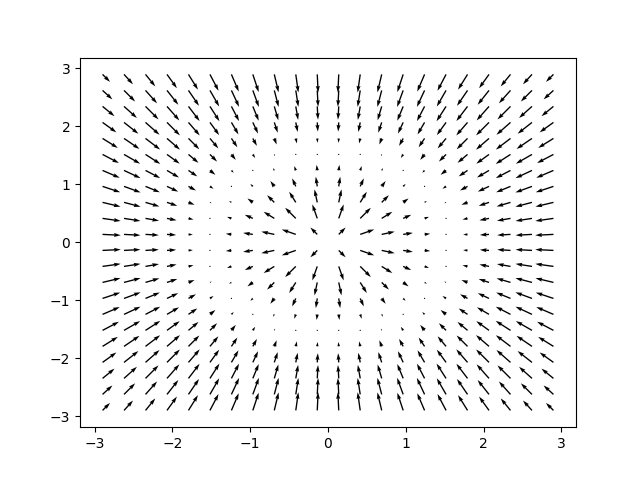
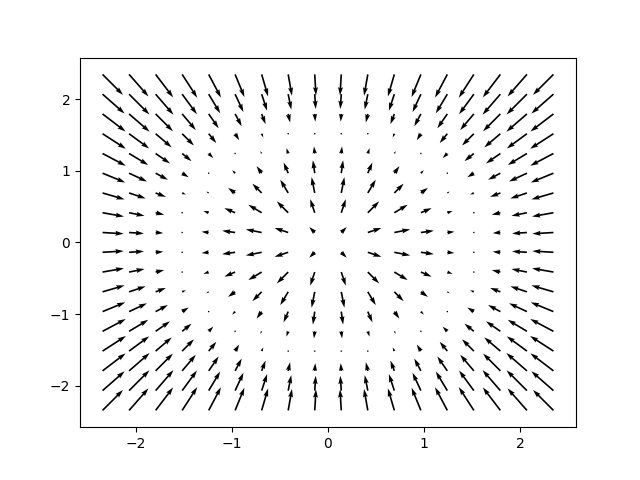
new formulation

diff --git a/SPH_Approximation.py b/SPH_Approximation.py
@@ -21,9 +21,9 @@ from kernel_functions import CubicSpline, d_CubicSpline, dd_CubicSpline
 from kernel_functions import WendlandQuinticC2, d_WendlandQuinticC2, dd_WendlandQuinticC2
 
 
-function = np.vectorize(SineFunction)                      #change the functions here
-d_function = np.vectorize(d_SineFunction)
-dd_function = np.vectorize(dd_SineFunction)
+function = np.vectorize(CosFunction)                      #change the functions here
+d_function = np.vectorize(d_CosFunction)
+dd_function = np.vectorize(dd_CosFunction)
 kernel = np.vectorize(Gaussian)                #change the gradients here
 d_kernel = np.vectorize(d_Gaussian)
 dd_kernel = np.vectorize(dd_Gaussian)
@@ -35,8 +35,10 @@ for particles_per_row in particles_per_row_list:
     
     h = 4 * domain/particles_per_row            #smoothing length
     m_v = 0.8 * (domain/particles_per_row)**2   #particle volume   
-    a = 4
-    c = a * domain/particles_per_row            #cutting off distance
+    rho_0 = 10
+    m = m_v * rho_0
+    a = 6
+    c = a * 2 * domain/particles_per_row            #cutting off distance
     x = np.linspace(-domain, domain, particles_per_row) 
     y = np.linspace(-domain, domain, particles_per_row)
     x, y = np.meshgrid(x.round(decimals=3), y.round(decimals=3))
@@ -62,8 +64,8 @@ for particles_per_row in particles_per_row_list:
             y_dis = y[i, j] - y
             r = np.sqrt(x_dis**2 + y_dis**2)
             weights = kernel(x_dis, y_dis, h, c)
-            density[i, j] = CalculateDensity(m_v, kernel, x_dis, y_dis, h, c)
-    mass = np.ones_like(density) * m_v
+            density[i, j] = CalculateDensity(m, kernel, x_dis, y_dis, h, c)
+    mass = np.ones_like(density) * m
 
 
     cut = np.vectorize(Cutoff)
@@ -99,8 +101,8 @@ for particles_per_row in particles_per_row_list:
             approxi_z[i, j] = np.sum(z * mass_j / density_j * weights)
             approxi_dz_dx[i, j] = density_i*np.sum(mass_j * (phi_i/density_i**2 +  phi_j/density_j**2) * d_weights_dx)
             approxi_dz_dy[i, j] = density_i*np.sum(mass_j * (phi_i/density_i**2 +  phi_j/density_j**2)  * d_weights_dy)
-            approxi_ddz[i, j] = 8*np.sum( mass_j / density_j * (phi_j -  phi_i) * r / (r**2) * (np.sqrt(d_weights_dx**2 + d_weights_dy**2)))
-
+            # approxi_ddz[i, j] = 8*np.sum( mass_j / density_j * (phi_j -  phi_i) * r / (r**2) * (np.sqrt(d_weights_dx**2 + d_weights_dy**2))) #divergence free formulation
+            approxi_ddz[i, j] = np.sum( mass_j / density_j * (phi_j -  phi_i) * 2 *(np.sqrt(d_weights_dx**2 + d_weights_dy**2)) / r )
 
 
 
